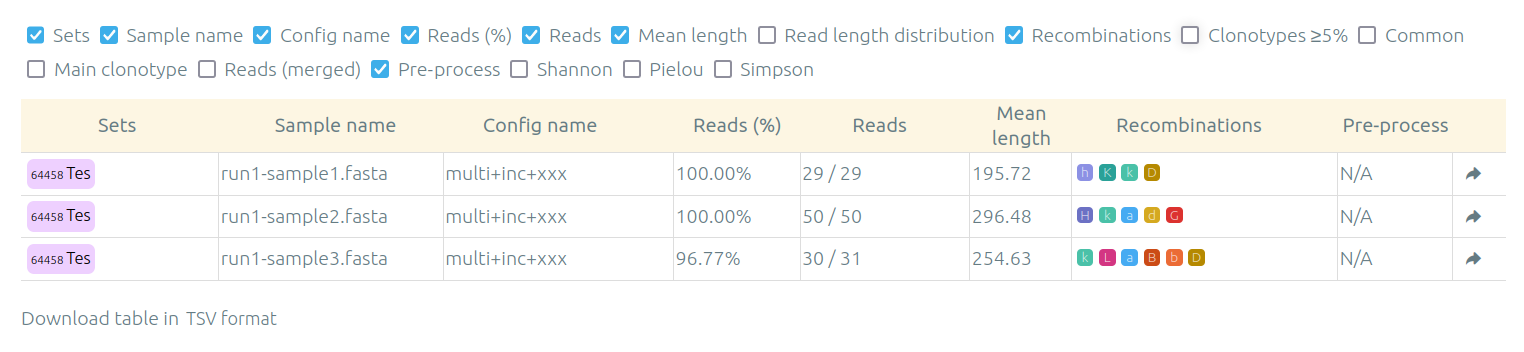
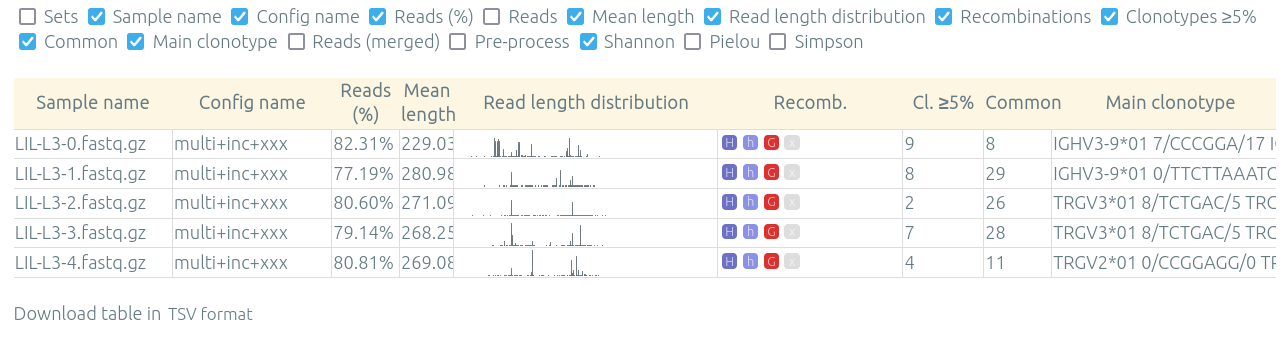
doc/user.md: stats-qc, bikeshed

Changed region(s): [[0.0, 0.1734, 0.9977, 0.8092], [0.0, 0.0289, 0.9977, 0.1445], [0.0, 0.8671, 0.2182, 0.9249]]

diff --git a/doc/user.md b/doc/user.md
@@ -483,7 +483,7 @@ you can process your data and save the results of your analysis.
   ![Image title](./pictures/table_db_content_patient_list.png)
   <figcaption>
     The main page on the sample database show a list of patients, or runs or sets,
-    with links to the samples and the results.
+    with links to the samples, the results, and the preview/quality control.
   </figcaption>
 </figure>
 
@@ -619,35 +619,37 @@ The only thing you should not do is to close completely your web browser (or the
 Once a task is completed, a click on the `See results` link (bottom right) will open the main window to browse the clonotypes.
 A click on the `out` link at the right of every sample give access to the raw output file of the RepSeq software.
 
-### Statistics and quality control view
+### Displaying statistics, quality control
 
-New with release 2024.05!
+!!! New with release 2024.05
 
-This view allow to see in one table various information on results for multiple samples from one set.
+The "Preview / quality control" allow to see in one table various information on results for multiple samples from one patient, run, or set, for a specified configuration (that was already processed).
+The `Download table (.tsv)` button under the table allow you to process these statistics in an external tool.
 
 <figure markdown>
-  ![Image title](./pictures/stats_qc2.png)
+  ![Preview / Quality control](./pictures/stats_qc2.png)
   <figcaption>
-    The statistics and quality control view.
+    Preview / Quality control view.
   </figcaption>
 </figure>
 
-To add this new view, a direct dedicated button have been added on sets pages to allow a direct access to these results for a specified and already launched configuration.
+This page can be accessed through a button either from a patient/run/set page, or from the main page on the sample database listing patients/runs/sets
 
 <figure markdown>
-  ![Image title](./pictures/stats_qc1.png)
+  ![Home page](./pictures/stats_qc1.png)
   <figcaption>
-    New button to access results and statistics and quality control view.
+    Accessing results and preview/quality control from the main page of the sample database.
   </figcaption>
 </figure>
 
-Here are details of available columns:
+The columns (list below) can be showed or hidden using the checkboxes above the table.
+Displayed and hidden columns are saved in your local settings.
 
-| Columns | Definitions |
+| Columns | Explanation |
 | :------ | :---------- |
 | Sets | Patients, runs, sets |
 | Sample name | Sample name |
-| Config name | Analysis configuration |
+| Config name | Analysis configuration (such as `multi+inc+xxx`) |
 | Reads (%) | Percentage of analyzed reads |
 | Reads | Number of analyzed reads / Total number of reads |
 | Mean length | Mean length of the reads |
@@ -662,10 +664,6 @@ Here are details of available columns:
 | Pielou | Pielou's evenness (0: no diversity, 1: full diversity)|
 | Simpson | Simpson's diversity (0: no diversity, 1: full diversity)|
 
-The columns can be showed or hidden using the checkboxes above the table.
-Displayed and hidden columns are saved in local settings to allow you to tune your own configuration.
-
-A `tsv` export is also available through a button located under the table. This allows you to process results in an external tool.
 
 ### Groups
 
